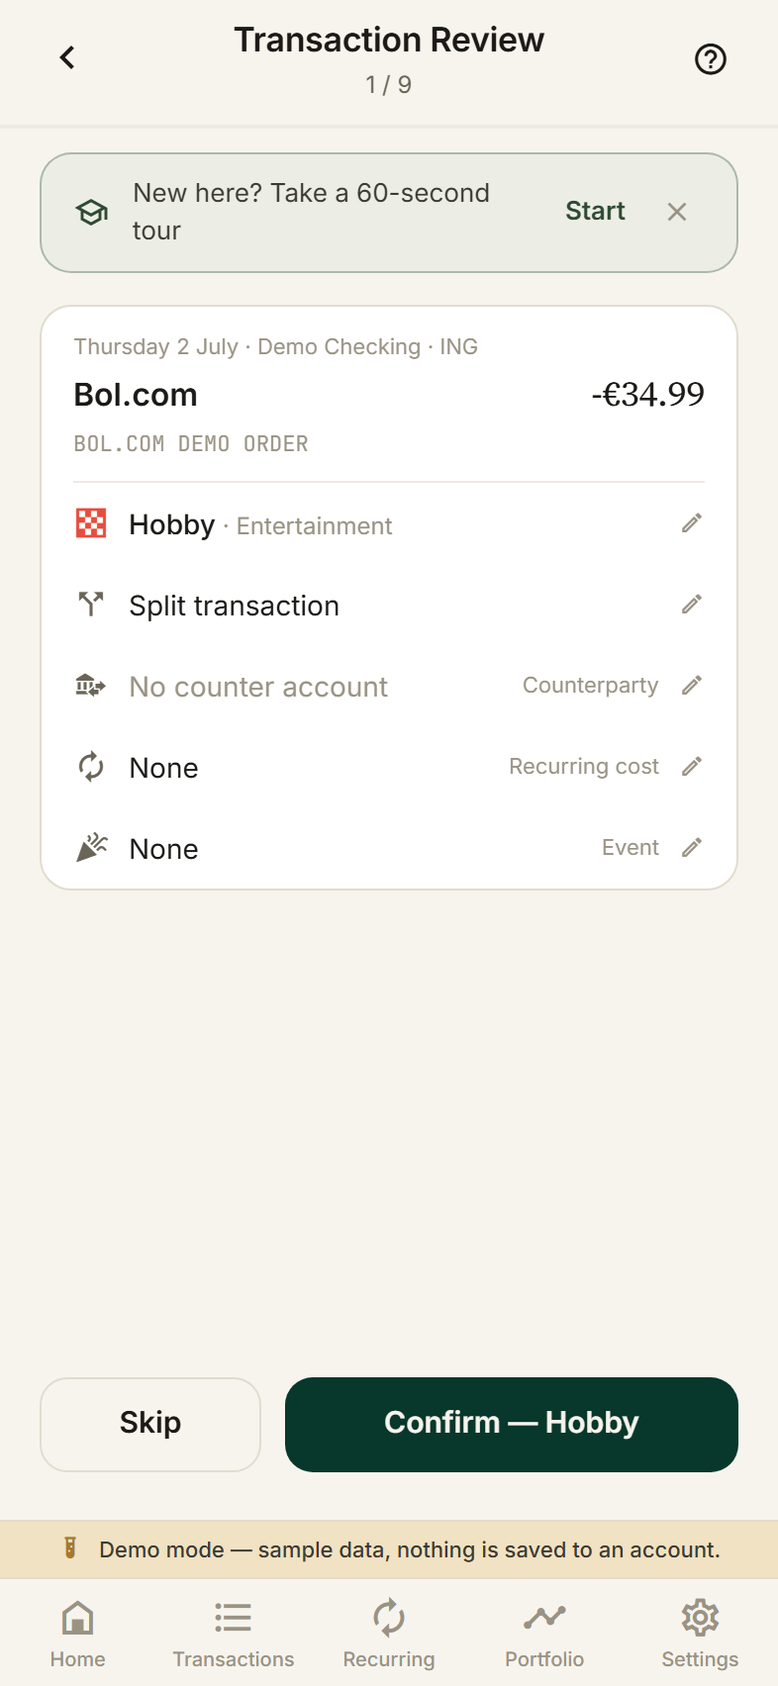
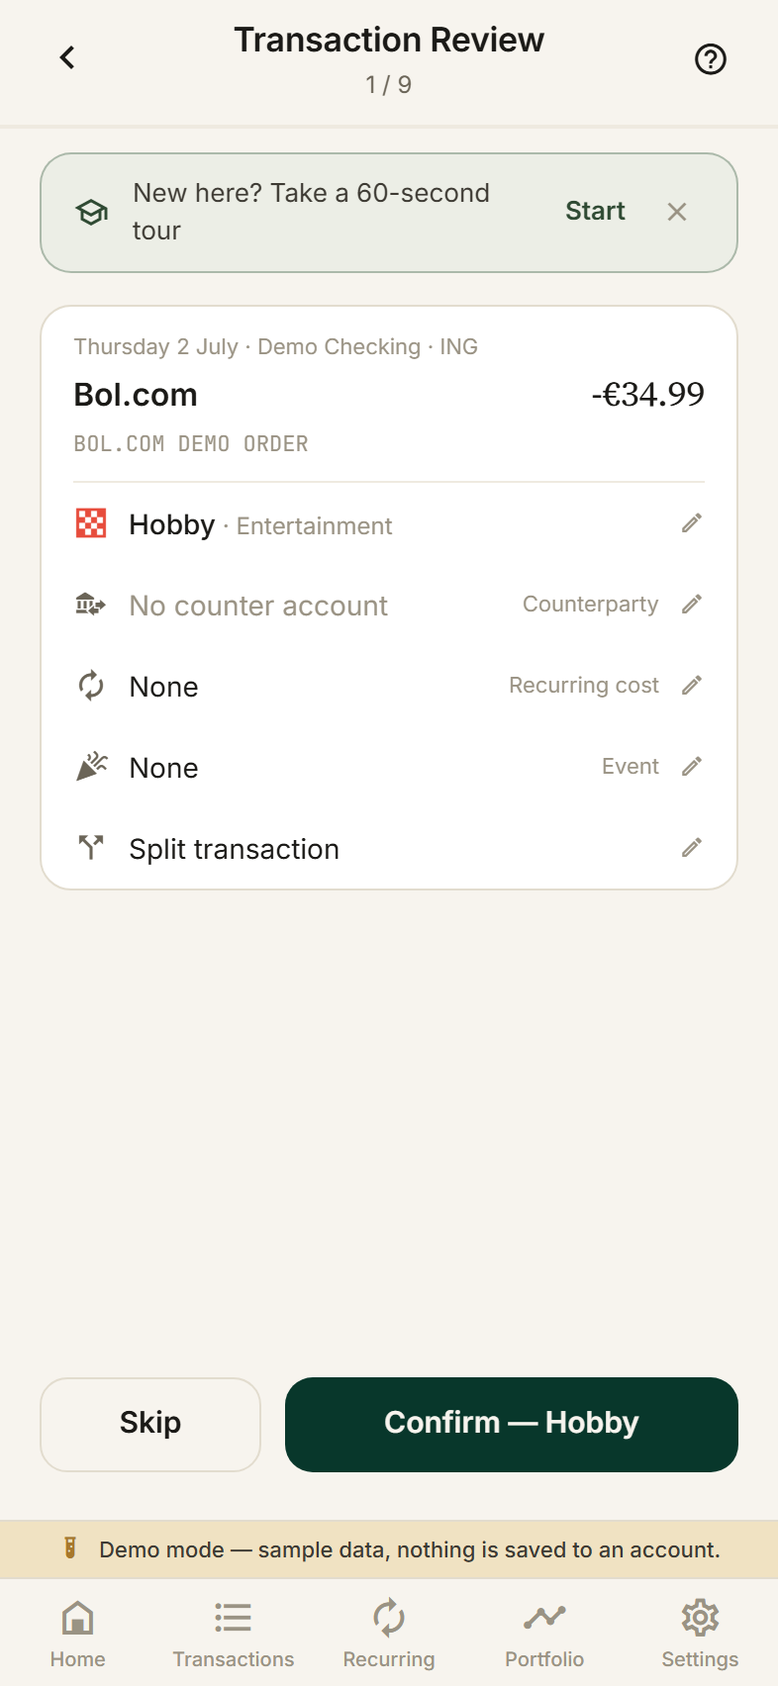
docs(guide): checklist + user-guide retold for the board batch (refs #194)

diff --git a/apps/web/public/guide/index.html b/apps/web/public/guide/index.html
@@ -57,7 +57,7 @@
 
   <section id="home">
     <h2>Home is yours</h2>
-    <p>Home is a landing zone of blocks: review queue, this period, new transactions, budgets, upcoming costs and more. Features you haven't tried yet gather in one compact Explore block instead of filling the page — tap a row to start; each disappears once it's in use, and Explore is a block like any other, so Customize Home orders or hides it too. Reorder or hide blocks with Customize Home at the bottom. The avatar on the top right switches spaces.</p>
+    <p>Home is a landing zone of blocks: review queue, this period, new transactions, budgets, upcoming costs and more. Features you haven't tried yet gather in one compact Explore block instead of filling the page — tap a row to start; each disappears once it's in use, and Explore is a block like any other, so Customize Home orders or hides it too. Reorder or hide blocks with Customize Home at the bottom. The avatar on the top right switches spaces. The floating + button is the quick-add door: a manual transaction, a bank-export upload, a new category, account, friend request or space — in one tap.</p>
     <ul class="tips"><li>The balance band folds out to show every account — and you pick what the big number MEANS per space: net worth, total cash and safe to spend are premade formulas, and "Picked accounts" is the one you compose yourself, checkbox by checkbox. On a wide screen Home splits into two columns only once there are enough blocks to fill them.</li>
 <li>Portfolio has its own tab at the bottom.</li>
 <li>The bell has two tabs now: Notifications collects release news, due reminders, the interest-rate nudge and the weekly digest (a numbered badge counts what you haven’t seen — opening the tab clears it), and Activity keeps the space’s audit trail with who did what.</li>
@@ -69,9 +69,10 @@
 
   <section id="banks">
     <h2>Connecting your bank</h2>
-    <p>Settings → Global settings → All accounts. Connect a bank (read-only PSD2 access — munni can never move money) or import statements (CAMT.053, ING CSV or a PayPal activity export — several files at once) for accounts your bank won't share; those are global, listed first. Manual cash/savings accounts live INSIDE a space — the overview lists them under their space, and creating one takes you to "This space's accounts" (the wallet icon; the bank icon is the global overview). Bank data lands once per account; each space picks its accounts with a start date AND decides what the account is to that space — checking, savings, a loan… or a funding account: a shared pot you send money to, whose transactions never show in the space and whose balance counts toward nothing. A freshly connected account attaches to the space you started from by itself — an IMPORTED one stays global until you attach it yourself: the import result offers the attach step, where you pick the account type and how far back its history shows.</p>
+    <p>Settings → Global settings → All accounts. Connect a bank (read-only PSD2 access — munni can never move money) or import statements — pick your bank from the searchable list (ASN, ING, PayPal — or the universal CAMT.053 door for any other), several files at once, with a live transaction count while a big import runs for accounts your bank won't share; those are global, listed first. Manual cash/savings accounts live INSIDE a space — the overview lists them under their space, and creating one takes you to "This space's accounts" (the wallet icon; the bank icon is the global overview). Bank data lands once per account; each space picks its accounts with a start date AND decides what the account is to that space — checking, savings, a loan… or a funding account: a shared pot you send money to, whose transactions never show in the space and whose balance counts toward nothing. A freshly connected account attaches to the space you started from by itself — an IMPORTED one stays global until you attach it yourself: the import result offers the attach step, where you pick the account type and how far back its history shows.</p>
     <ul class="tips"><li>Every space is born with six default accounts — savings, loan, investments, bank, cash and a shared pot. They are munni\u2019s own fixtures: a movement category always has somewhere valid to point, so they can\u2019t be deleted. You CAN adjust their balance from the account editor — the correction is recorded as an adjustment row, so the ledger stays honest. Their transactions are managed by munni: the legs appear when you link, leave when you unlink, and never take hand-edits.</li>
 <li>New transactions arrive automatically several times a day.</li>
+<li>The overview stays quiet: each space section shows your own accounts right away, folds the six defaults behind one toggle, and echoes bank-fed accounts inertly — tapping an echo jumps to the real row up top. The account editor is grouped (basics, balance, loan story, about) and the info sheets say how fresh the data is: the date it runs through and the newest transaction.</li>
 <li>With two open-banking providers configured, connecting asks WHO first: GoCardless works with any bank, while Enable Banking only serves accounts linked upfront on its portal \u2014 the choice screen shows the masked account numbers already known to work there, and each connection remembers its provider.</li>
 <li>Reserved (not yet booked) card payments show with a badge and disappear when the real booking lands.</li>
 <li>Each account row shows when the bank last answered — a Reconnect hint appears when a consent has gone quiet.</li>
@@ -85,7 +86,7 @@
 <li>A loan IS an account now: create it once (loan, mortgage or credit card) and it appears on the Debts screen by itself — transfers to it are the payments, and munni nudges weekly until the interest rate is filled in (0% counts). The plan takes a due day like a recurring cost, and "Left to pay" is the loan\u2019s anchor value. Credit cards join the debts view only when you give them a debt story or flip "Track as debt" on the account.</li>
 <li>Leave a loan’s payment fields empty and the plan — amount, rhythm, payoff date — is estimated from the payments themselves; debt payments without a counter account gather under “Unassigned payments” until you file them.</li>
 <li>A recurring cost owns a category: linked transactions file under it automatically, with expected reimbursement as the one allowed override.</li>
-<li>Recurring-cost detection reads your full bank history — charges older than the space’s start date count as pattern evidence (that’s how yearly subscriptions get spotted) while your lists stay clean; accepting a suggestion links only the visible payments.</li>
+<li>Recurring-cost detection reads your full bank history — charges older than the space’s start date count as pattern evidence (that’s how yearly subscriptions get spotted) while your lists stay clean; accepting a suggestion opens the occurrence review: the reconciler’s own picks arrive pre-checked, you prune what does not belong, and the linked charges take the recurring’s category on the spot.</li>
 <li>Detection knows lenders too: a payment pattern to a known one (DUO, for a start) surfaces right on the Debts screen — "Track as loan" opens loan creation in place, prefilled with the pattern as the payment plan, and "Not a loan" dismisses it; the recurring inbox keeps only genuine subscriptions.</li>
 <li>An account’s TYPE is a space-level fact: each space decides what an attached account is when attaching it, names it on the space’s account list, and can change it later from the account’s info sheet — deliberately destructive: that space’s transactions return to review under the new reading, as if freshly added, while other spaces’ readings and all balances stand. Space-created accounts carry their own type; the global overview keeps accounts plain.</li>
 <li>A space can call an attached account by its OWN name — rename it in the space\u2019s accounts sheet without touching the global name (shown right there as its own fact, with a quick link that opens the account in the all-accounts overview); renaming globally asks whether the space names follow.</li></ul>
@@ -106,7 +107,7 @@
 <li>The Split transaction row is the other gear: the amounts partition into parts that stack like cards in a deck; tap a peeking card and it shuffles to the front to take its categories, counterparty, recurring cost and event right there.</li>
 <li>Parts are full transactions and nothing restricts them beyond the amounts adding up — five expense parts, two savings, any mix is a real split. Splitting a filled transaction asks first: the row becomes a pure container and its own category, recurring link, event and note reset — the parts carry those from then on. Confirm stays tappable while parts are incomplete; tapping it marks exactly which parts still need a category.</li>
 <li>Missing a category, recurring cost or event? Create it right from the picker — the card keeps your place.</li>
-<li>Naming a counterparty is ONE tap — and the card (and each split part) then carries its own Counter-transaction row: by default the leg is created on confirm (manual counterparties) or arrives with the bank feed. Tap the row to point at an existing transaction instead — one to three suggested matches first, every other open row scrollable below. Creating keeps the "apply to similar" offer armed; picking an existing row is specific to that one card, so a standing bulk offer asks first and then stands down.</li>
+<li>Naming a counterparty is ONE tap — and the card (and each split part) then carries its own Counter-transaction row: by default the leg is created on confirm (manual counterparties) or arrives with the bank feed. Tap the row to point at an existing transaction instead — one to three suggested matches first, every other open row scrollable below, searchable by title or amount; and when the real counter is out of reach (older than the space, for instance), the "No counter transaction" door unlinks and lets the row be. Creating keeps the "apply to similar" offer armed; picking an existing row is specific to that one card, so a standing bulk offer asks first and then stands down.</li>
 <li>The card remembers more than categories now: a percentage spread you keep confirming for a merchant arrives pre-staged, and the event its recent charges joined is offered on the event row — until you touch it yourself.</li>
 <li>A loan counterparty needs no extra line: the Counterparty row IS the debt (they are one and the same account).</li></ul>
     <div class="shots"><figure><img src="shots/13-review-banner--en-light-mobile.png" alt="Reviewing transactions" loading="lazy"></figure>
@@ -117,8 +118,8 @@
   <section id="transactions">
     <h2>Transaction details</h2>
     <p>Open any transaction to recategorize, split it, or set its counterparty — one per transaction, a property row of its own next to the account (a manual counterpart gets its own leg written automatically, and removing the counterparty resets the category); the bank's raw counterparty stays as a read-only "Original counterparty" fact under Details, and on manual rows a small Adjustment toggle marks corrections. Attach receipts, link recurring costs or events, and record reimbursements that show the net cost — on a split transaction the reimbursement stays ON the part: the part's headline shows what it is worth, the whole stays split, and only the parent's total moves along. Splitting has two gears — and they are different features. SPLIT CATEGORIES is the light one: the category editor spreads one payment across several regular categories, exact euros or percentages, and the row stays ONE transaction with everything a transaction has. A ◆ special category is different: it spans the whole transaction — one special, one counterparty — so it never shares a spread. SPLIT TRANSACTION is the heavy one — when one payment carries several kinds of money: each part has its own name ("Albert Heijn – split 1", rename freely), its own counterparty on its own row, even its own category spread — the €100 phone bill can be €50 telecom and €50 paying the device loan off, and the loan moves by exactly its €50; the container itself keeps no category at all. Settled value moves into the special Reimbursed category — real categories keep only what you truly paid; it stands pinned first in the category editor, read-only, and removing the reimbursement link is the only way to remove it — and the transactions tab has an "Unsettled reimbursements" quick filter for everything still waiting on money.</p>
-    <ul class="tips"><li>One reading rule in the detail: a pencil edits right here, a chevron travels somewhere.</li>
-<li>The "Counter transactions" chip shows every linked leg on its own, pairs uncollapsed.</li>
+    <ul class="tips"><li>One reading rule in the detail: a pencil edits right here, a chevron travels somewhere. The Actions card leads with Split transaction, then the recurring and event links — and "Customize this view" can reorder or hide the actions and details sections too now.</li>
+<li>The "Counter transactions" chip shows every linked leg on its own, pairs uncollapsed. The New chip narrows to unreviewed rows — Home\u2019s "see all" arrives with it on — and your filters survive a detour into a transaction, resetting only on a tab switch or a fresh start.</li>
 <li>Search matches amounts too: typing 10 finds 10.99 and 210.15 — and part names, so "Sarah\u2019s loan" finds the payment that carries it.</li>
 <li>A split shows its sub-transactions as rows of their own in the list, branching off a compact header that names the original payment with its full amount — the chevron folds them away; each row opens as its own page with its own type, categories, event, note and reimbursements, its sisters one tap away, and the whole transaction one more.</li>
 <li>Filters see through splits: when a category or type filter matches only some parts, exactly those parts show — aligned like any other row, wearing a small split mark — in the list and in the overview drill-downs alike.</li>
@@ -141,8 +142,8 @@
     <h2>Spaces &amp; sharing</h2>
     <p>Spaces are separate bookkeeping areas — personal, household, a trip. Creating one is a full form now: name, icon and color, budget period, ledger currency and history start, all prefilled with sensible defaults so "type a name, press Create" still works. Invite friends into a shared space: everyone sees the same transactions but each space keeps its own categories and budgets. Attach a bank account to any number of spaces, each with its own history start. The card at the top of the Settings tab opens the space's own settings (name, image, color); its budget period, currency and default history start are separate settings right below it.</p>
     <ul class="tips"><li>Creating a space asks the privacy choice right there (private by default). A space picture takes over from symbol and color while it is set, and the palette button on a space edits exactly that: its look.</li>
-<li>New spaces start locked private — nobody can be invited until the owner unlocks sharing in the space’s settings.</li>
-<li>Roles: owners manage members, contributors edit, readers only look.</li>
+<li>New spaces start locked private — nobody can be invited until the owner flips the private-mode row in the Settings tab\u2019s setup group (the space\u2019s identity screen keeps only name, image and color).</li>
+<li>Roles: owners manage members, contributors edit, readers only look. Inviting an existing friend opens a searchable sheet where you pick the role up front; inviting someone NEW from the members screen sends one request that adds them to the space the moment they accept. Tap a member to see their full identity, role and member-since date — role changes and removals reach the affected person as a phone notification, and being removed from the space you are looking at switches you to another with a clear note.</li>
 <li>Leaving a space archives your attached accounts for the others instead of deleting history.</li>
 <li>Moving the history start counts its consequences before anything happens: bank rows hide but stay stored, manual rows before the date are deleted with a warning, and moving it older surfaces stored rows again. Manual transactions dated before the start are refused with a one-tap "move the start here" way out.</li>
 <li>The budget period screen has its own tutorial — tap the ? up top.</li></ul>

diff --git a/docs/functionality-checklist.md b/docs/functionality-checklist.md
@@ -28,33 +28,40 @@ the user-guide and tour maintenance rules.
 - [ ] Blocks: review nudge, new transactions, budgets, events, goals, debts, insights, Explore; customize order/visibility
 - [ ] Desktop: two columns only when ≥4 blocks, else one centered column
 - [ ] Notifications bell; install hint; update card
+- [ ] Quick-add FAB: manual transaction, bank export upload, category, account, friend request, space
 
 ## Transactions
 - [ ] List: date groups, hairline dividers between transactions (not between split parts), search with clear ×
-- [ ] Quick filters: filter sheet (accounts/kinds/categories/dates), uncategorized, unsettled reimbursements, counter transactions (pairs uncollapsed)
+- [ ] Quick filters: filter sheet (accounts/kinds/categories/dates), New (unreviewed), uncategorized, unsettled reimbursements, counter transactions (pairs uncollapsed)
+- [ ] Filters survive a detour into a transaction; reset on tab switch or fresh start; Home's "see all" arrives with the New lens on
+- [ ] Empty list leads to the space's own accounts screen
 - [ ] Pair collapse: one row per transfer with "A → B" note; per-account view keeps both legs
 - [ ] Desktop master-detail: full-width selected-row highlight, `/` focuses search
 - [ ] Manual add/edit: amount arithmetic, account picker, category, counterparty, adjustment toggle, date guard with full history-move door
-- [ ] Detail: consistent affordances (pencil = edits here, chevron = navigates); rename/edit, categories editor, split door last, recurring/event pickers with logos + quick-create, notes inline, receipt, facts, customize blocks, delete
-- [ ] Split transaction: values editor (amount/pct with mode explainer), per-part deck (categories, counterparty, counter transaction, recurring/event with quick-create), part pages
-- [ ] Split categories: one transaction, several categories; special categories span the whole; percentage spreads
+- [ ] Detail: consistent affordances (pencil = edits here, chevron = navigates); rename/edit, categories editor, Actions section (split door first, recurring, event), notes inline, receipt, facts, customize blocks (incl. actions + details), delete
+- [ ] Category edits from part pages / landing or removing a split clear the unreviewed badge; removing a split closes stale bulk offers
+- [ ] Split transaction: values editor (amount/pct with mode explainer; the chosen shape sticks per transaction), per-part deck (categories, counterparty, counter transaction, recurring/event with quick-create), part pages
+- [ ] Split categories: one transaction, several categories; special categories span the whole; percentage spreads (parts keep their % shape too)
+- [ ] Reimbursements: explicit original → links → net story on whole rows and parts; over-max link amounts error with the max named
 - [ ] Counterparty: one per (split) transaction; counter-first fills the category; counter transaction row (pick existing / create / await feed); unpair dialogs
 - [ ] Reimbursements: expected/received, settle order (expecting → uncategorized → largest), net display, links both directions
 
 ## Review
-- [ ] Card queue: category rows, counterparty row, counter-transaction row, recurring, event, split door (last)
+- [ ] Card queue: category rows, counterparty row, counter-transaction row (search by title/amount, None door), recurring, event, split door (last)
 - [ ] Memory: recency-weighted category recall (space-own first), spreads, events, titles; amount match
 - [ ] Bulk confirm: similar transactions, percentages refit each amount
 - [ ] Skip leaves no trace; desktop top-anchored card with buttons beneath
 
 ## Categories
-- [ ] Catalog: built-in + custom parents/subs; income ◆ special parent; new mains are expense
+- [ ] Catalog: built-in + custom parents/subs; income ◆ special parent; Adjustment locked ◆ (no user subs through any door); new mains are expense
 - [ ] Manage: create/edit/delete with impact guard, icons search, colors, drag subs between mains, hold-menu
-- [ ] Picker: search (hide-on-scroll-down, back on scroll-up), ◆ special filter chip, create-custom door, no stale error flash
+- [ ] Picker: search matches parent names (whole group survives, no mid-word gap), hide-on-scroll-down / back on scroll-up, ◆ special filter chip, create-custom door, no stale error flash
+- [ ] Account-typed gating: a brokerage manual row offers only the investment story (savings/loans likewise via their stamps)
 
 ## Recurring costs
-- [ ] Five tabs (period, next, this year, next year, all); occurrence-filtered; pre-start occurrences excluded
-- [ ] Detection inbox: evidence, accept (prefilled form), dismiss; lender patterns live on Debts instead
+- [ ] Five tabs (period, next, this year, next year, all); occurrence-filtered; pre-start occurrences excluded; future ranges show only the total
+- [ ] Year views: monthly estimate-vs-paid line chart with per-line toggles
+- [ ] Detection inbox: evidence, accept (prefilled form) → occurrence review (pre-checked picks, prune before linking; linked charges take the category), dismiss; lender patterns live on Debts instead
 - [ ] Price-change badges, yearly totals, due days, payment history, logos everywhere pickers list costs
 
 ## Debts & loans
@@ -72,13 +79,14 @@ the user-guide and tour maintenance rules.
 - [ ] Allocation (envelopes): to-allocate, per-period cells
 
 ## Accounts & banks
-- [ ] Global overview: one plain "Connected & imported" section (no types at global level), shared-with-me, per-space sections with types
+- [ ] Global overview: one plain "Connected & imported" section (no via-space text; IBAN speaks), shared-with-me, per-space sections with types, defaults folded behind a toggle, bank-fed echoes that jump to the real row
 - [ ] Unattached accounts wear a badge (no auto-attach offer); explicit attach picks space, TYPE and history start
 - [ ] Space level: type leads each row's subtitle; info sheet shows global name, per-space rename, type change (re-reviews that space only), history-from, provenance, "view in all accounts" door, detach
 - [ ] Bank connect (GoCardless/Enable Banking): provider choice, consent, callback screens, never auto-attaches, nightly fetch, reconnect hints, sync-empty/dropped warnings
 - [ ] Account deletion with purge; co-owned same-IBAN feeds; feed janitor
-- [ ] Import (CAMT/ING CSV/PayPal): preview with pre-start warning, busy note on click-away, no false "archived" badge mid-import, result step with explicit attach door, batches with rollback, reconcile suggestions
-- [ ] Account editor: name, icon/logo picker (sheet stacks correctly), balance (adjustment row for defaults), loan fields, type row
+- [ ] Import: searchable bank chooser (ASN/ING/PayPal) + universal CAMT.053 door; preview with pre-start warning, live n/total progress, busy note on click-away, no false "archived" badge mid-import, result step with explicit attach door, batches with rollback, reconcile suggestions
+- [ ] Account editor: sectioned Basics / Balance / loan story / About; data-through + latest-transaction dates on info surfaces; staged delete progress on feed removal
+- [ ] Attach flow: no history-from field (the space start date governs); manual rows open the editor directly
 
 ## Portfolio
 - [ ] Holdings search (stocks/coins), buys/sells, valuation
@@ -93,10 +101,12 @@ the user-guide and tour maintenance rules.
 - [ ] Split sessions with friends, invites, event attachment, settle flows
 
 ## Friends
-- [ ] Friend requests, list, invitations into spaces
+- [ ] Friend rows open a profile sheet (full ID + copy, fullscreen picture, remove door)
+- [ ] Space invites: searchable friend sheet with upfront role; new-person invite carries the space (accepting joins it)
+- [ ] Members: rows open a member sheet (role, member-since, remove); role changes and kicks push to the affected user; kicked-out takeover sheet switches the active space
 
 ## Settings
-- [ ] Space settings: groups (plan/track/learn/setup), sync status row, budget period, currency (with explainer), history start with impact counts
+- [ ] Space settings: groups (plan/track/learn/setup), sync status row, budget period, currency (with explainer), history start with impact counts, private-mode toggle (owner-only, moved from the identity screen)
 - [ ] Global settings: profile, spaces, all accounts, friends, connections, devices (browser names, numbered duplicates, rename/disconnect), language, shopping, export, help, push, app lock, appearance (tap row to cycle light→dark→auto), tips
 - [ ] What's-new entries per release; user guide (10 sections) regenerated on change
 
@@ -106,6 +116,7 @@ the user-guide and tour maintenance rules.
 
 ## Offline & sync
 - [ ] Local-first everywhere; outbox; HLC/LWW convergence; per-field merges
+- [ ] Forms: primary buttons stay tappable — an invalid tap names the blocker and rings the field; draft screens guard their back arrow with a discard ask
 - [ ] Start date governs on every device (link gates heal every boot)
 - [ ] Offline banner truthfulness: no-network / unreachable / session-expired / version mismatch
 - [ ] GlitchTip: unexpected 5xx/409 reported from the API choke; import failures reported; demo/offline identities send nothing
